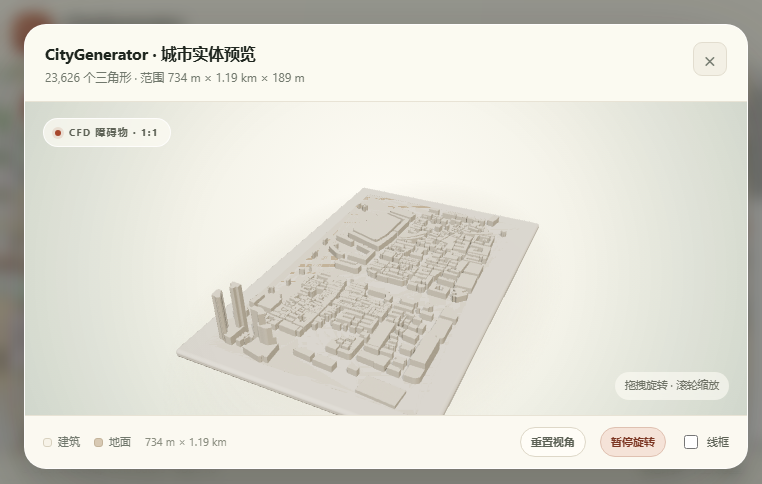
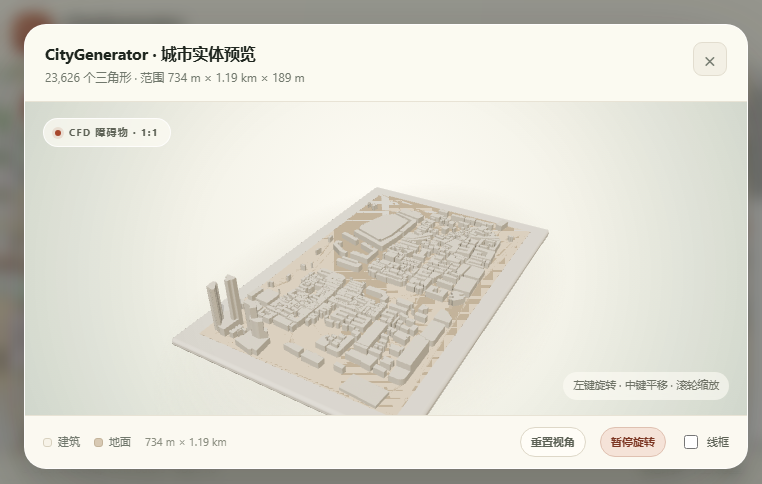
feat: pan city preview with middle mouse

Changed region(s): [[0.2113, 0.3719, 0.7244, 0.8678], [0.7546, 0.7748, 0.8753, 0.8058], [0.3924, 0.8368, 0.4528, 0.8678]]

diff --git a/app/static/js/viewer.js b/app/static/js/viewer.js
@@ -67,9 +67,23 @@ async function createRuntime() {
   const controls = new OrbitControls(camera, renderer.domElement);
   controls.enableDamping = true;
   controls.dampingFactor = 0.065;
-  controls.enablePan = false;
+  controls.enablePan = true;
+  controls.screenSpacePanning = true;
+  controls.mouseButtons = {
+    LEFT: THREE.MOUSE.ROTATE,
+    MIDDLE: THREE.MOUSE.PAN,
+    RIGHT: null,
+  };
   controls.rotateSpeed = 0.55;
   controls.zoomSpeed = 0.8;
+
+  // Middle-drag pans the model; suppress the browser's autoscroll cursor.
+  renderer.domElement.addEventListener("mousedown", (event) => {
+    if (event.button === 1) event.preventDefault();
+  });
+  renderer.domElement.addEventListener("auxclick", (event) => {
+    if (event.button === 1) event.preventDefault();
+  });
   controls.minPolarAngle = Math.PI * 0.14;
   controls.maxPolarAngle = Math.PI * 0.49;
   controls.autoRotate = true;
@@ -122,6 +136,7 @@ async function createRuntime() {
     loader: new STLLoader(),
     visible: false,
     wireframe: false,
+    groundLevel: 1.0,
     pedestal: null,
     contactShadow: null,
     homeView: null,
@@ -248,6 +263,11 @@ function setShadowBounds(state, plate) {
   camera.near = 0.1;
   camera.far = extent * 8;
   camera.updateProjectionMatrix();
+
+  // A fixed 2 cm bias is far too small for a city measured in kilometres and
+  // produces self-shadow banding across the ground slab. Scale it with the
+  // shadow frustum instead.
+  keyLight.shadow.normalBias = Math.max(0.05, Math.min(extent * 0.0015, 1.5));
 
   keyLight.position.set(
     plate.center.x + extent * 0.72,
@@ -397,9 +417,29 @@ async function loadModels(urls, state) {
         const mesh = new state.THREE.Mesh(part.geometry, material);
         mesh.name = part.kind;
         mesh.castShadow = true;
-        mesh.receiveShadow = true;
+        mesh.receiveShadow = part.kind !== "ground";
         state.modelGroup.add(mesh);
       }
+    }
+
+    // Boolean/triangulation seams can leave hairline cracks in the ground top.
+    // A slightly lower tan backing plate hides the plinth through those cracks
+    // without changing the STL or covering the visible ground surface.
+    if (loaded.some((item) => item.kind === "city")) {
+      const size = combined.getSize(new state.THREE.Vector3());
+      const backdrop = new state.THREE.Mesh(
+        new state.THREE.PlaneGeometry(size.x, size.z),
+        new state.THREE.MeshStandardMaterial({
+          color: COLORS.ground,
+          roughness: 0.96,
+          metalness: 0.0,
+          side: state.THREE.DoubleSide,
+        })
+      );
+      backdrop.rotation.x = -Math.PI / 2;
+      backdrop.position.set(0, state.groundLevel - 0.01, 0);
+      backdrop.name = "ground-backdrop";
+      state.modelGroup.add(backdrop);
     }
 
     const box = new state.THREE.Box3().setFromObject(state.modelGroup);
@@ -433,16 +473,18 @@ function splitCityGeometry(state, geometry) {
   const groundNormals = [];
   const buildingPositions = [];
   const buildingNormals = [];
-  const groundLevel = 0.05;
 
   // The STL was rotated -90 degrees about X to make it Y-up. Its original
   // Z/up coordinate is therefore the viewer's Y coordinate; using Z here would
   // split by north/south position and paint whole buildings as ground.
+  // After the model is lifted onto the plinth, the ground surface sits at the
+  // base thickness, not at y=0.
+  const threshold = state.groundLevel + 0.05;
   for (let i = 0; i < position.count; i += 3) {
     const elevated =
-      position.getY(i) > groundLevel ||
-      position.getY(i + 1) > groundLevel ||
-      position.getY(i + 2) > groundLevel;
+      position.getY(i) > threshold ||
+      position.getY(i + 1) > threshold ||
+      position.getY(i + 2) > threshold;
     const positions = elevated ? buildingPositions : groundPositions;
     const normals = elevated ? buildingNormals : groundNormals;
     for (let j = 0; j < 3; j += 1) {
@@ -481,7 +523,12 @@ function splitCityGeometry(state, geometry) {
   return parts;
 }
 
-export async function openViewer({ urls, title = "3D 预览", meta = "" }) {
+export async function openViewer({
+  urls,
+  title = "3D 预览",
+  meta = "",
+  groundLevel = 1.0,
+}) {
   const modal = document.getElementById("viewerModal");
   const status = document.getElementById("viewerStatus");
   document.getElementById("viewerTitle").textContent = title;
@@ -495,6 +542,7 @@ export async function openViewer({ urls, title = "3D 预览", meta = "" }) {
       runtime = await createRuntime();
     }
     runtime.visible = true;
+    runtime.groundLevel = groundLevel;
     runtime.resize();
     await loadModels(urls, runtime);
   } catch (error) {

diff --git a/app/static/index.html b/app/static/index.html
@@ -227,7 +227,7 @@
         <div class="viewer-wrap">
           <div id="viewerCanvas"></div>
           <div class="viewer-tag"><span class="viewer-tag-dot"></span>CFD 障碍物 · 1:1</div>
-          <div class="viewer-hint">拖拽旋转 · 滚轮缩放</div>
+          <div class="viewer-hint">左键旋转 · 中键平移 · 滚轮缩放</div>
           <div id="viewerStatus" class="viewer-status">加载中…</div>
         </div>
         <div class="modal-foot">

diff --git a/app/static/js/app.js b/app/static/js/app.js
@@ -372,6 +372,7 @@ function preview() {
     urls: [{ url: cityFile.url, kind: "city" }],
     title: "CityGenerator · 城市实体预览",
     meta: `${formatInt(stats.buildings)} 栋建筑 · ${formatInt(stats.triangles)} 个三角形`,
+    groundLevel: Number(stats.base_thickness_m) || 1.0,
   });
 }
 

diff --git a/docs/architecture.md b/docs/architecture.md
@@ -208,8 +208,9 @@ visible. The metadata schema version is `1.0`.
   (STL local Z; viewer Y after the Y-up rotation): building triangles use warm
   white, ground triangles use sand. Soft
   directional shadows, a PMREM studio environment, and a radial contact shadow
-  give the model a physical, printed look. The viewer offers orbit, zoom, reset,
-  auto-rotate, and wireframe controls. Downloaded files remain Z-up.
+  give the model a physical, printed look. The viewer offers left-drag orbit,
+  middle-drag pan, wheel zoom, reset, auto-rotate, and wireframe controls.
+  Downloaded files remain Z-up.
 - The layout is responsive: map + 390 px sidebar on desktop; stacked map and
   sidebar below 980 px; single-column fields below 620 px. The viewer footer
   wraps its legend and controls below 620 px.

diff --git a/README.zh-CN.md b/README.zh-CN.md
@@ -19,7 +19,7 @@
 ![CityGenerator 界面](docs/images/frontend.png)
 
 内置查看器把融合后的城市呈现为暖白色建筑模型，放置在展示底座上，带柔和
-的棚拍阴影和轨道控制。查看器只按三角形高度把单一 STL 临时分成建筑和地面
+的棚拍阴影；支持左键旋转、中键平移、滚轮缩放。查看器只按三角形高度把单一 STL 临时分成建筑和地面
 两种材质用于显示；导出的文件仍然是一个 Z 轴向上的整体网格。
 
 ![CityGenerator 三维预览](docs/images/preview.png)

diff --git a/README.md b/README.md
@@ -22,7 +22,8 @@ cached on disk.
 ![CityGenerator UI](docs/images/frontend.png)
 
 The built-in viewer presents the fused city as a warm-white architectural model
-on a display plinth, with soft studio shadows and orbit controls. The viewer
+on a display plinth, with soft studio shadows and left-drag orbit, middle-drag
+pan, and wheel zoom. The viewer
 splits the single STL into building and ground materials by triangle height for
 display only; the exported file remains one Z-up mesh.
 
